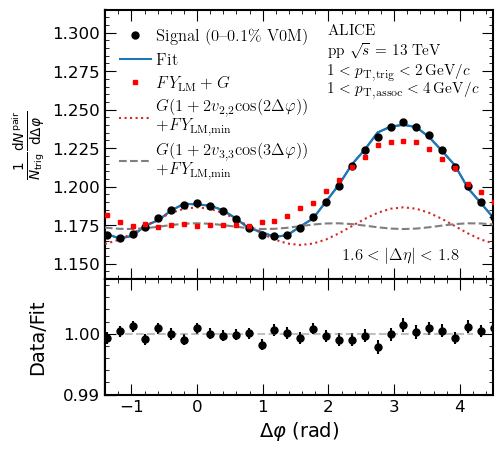
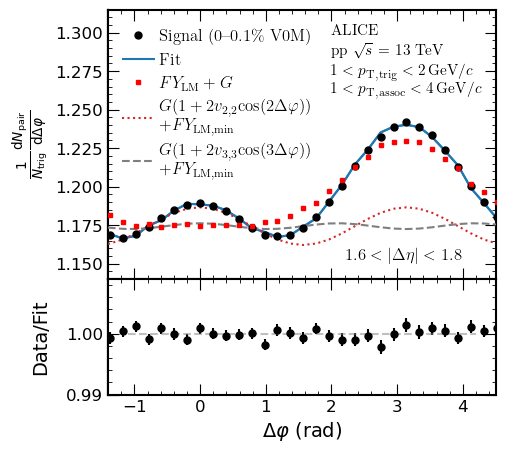
Fix Fig2 y label

diff --git a/FIG2_FlowExt.py b/FIG2_FlowExt.py
@@ -48,7 +48,7 @@ TypeName =["Signal (0--0.1\% V0M)", "Fit","$FY_{\\mathrm{LM}} + G$", "$G(1+2v_{2
 
 #xtitle = ["$p_\\mathrm{T,trig(assoc)} (\\mathrm{GeV}/c)$"];
 xtitle = ["$\\Delta\\varphi~(\\mathrm{rad})$"];
-ytitle = ["$\\frac{1}{N_{\\mathrm{trig}}}\\frac{\\mathrm{d}N^{\\mathrm{pair}}}{\\mathrm{d}\\Delta\\varphi}$"];
+ytitle = ["$\\frac{1}{N_{\\mathrm{trig}}}\\frac{\\mathrm{d}N_{\\mathrm{pair}}}{\\mathrm{d}\\Delta\\varphi}$"];
 
 # Following two must be added
 toptitle = "pp $\\sqrt{s}$ = 13 TeV"; # need to add on the top
